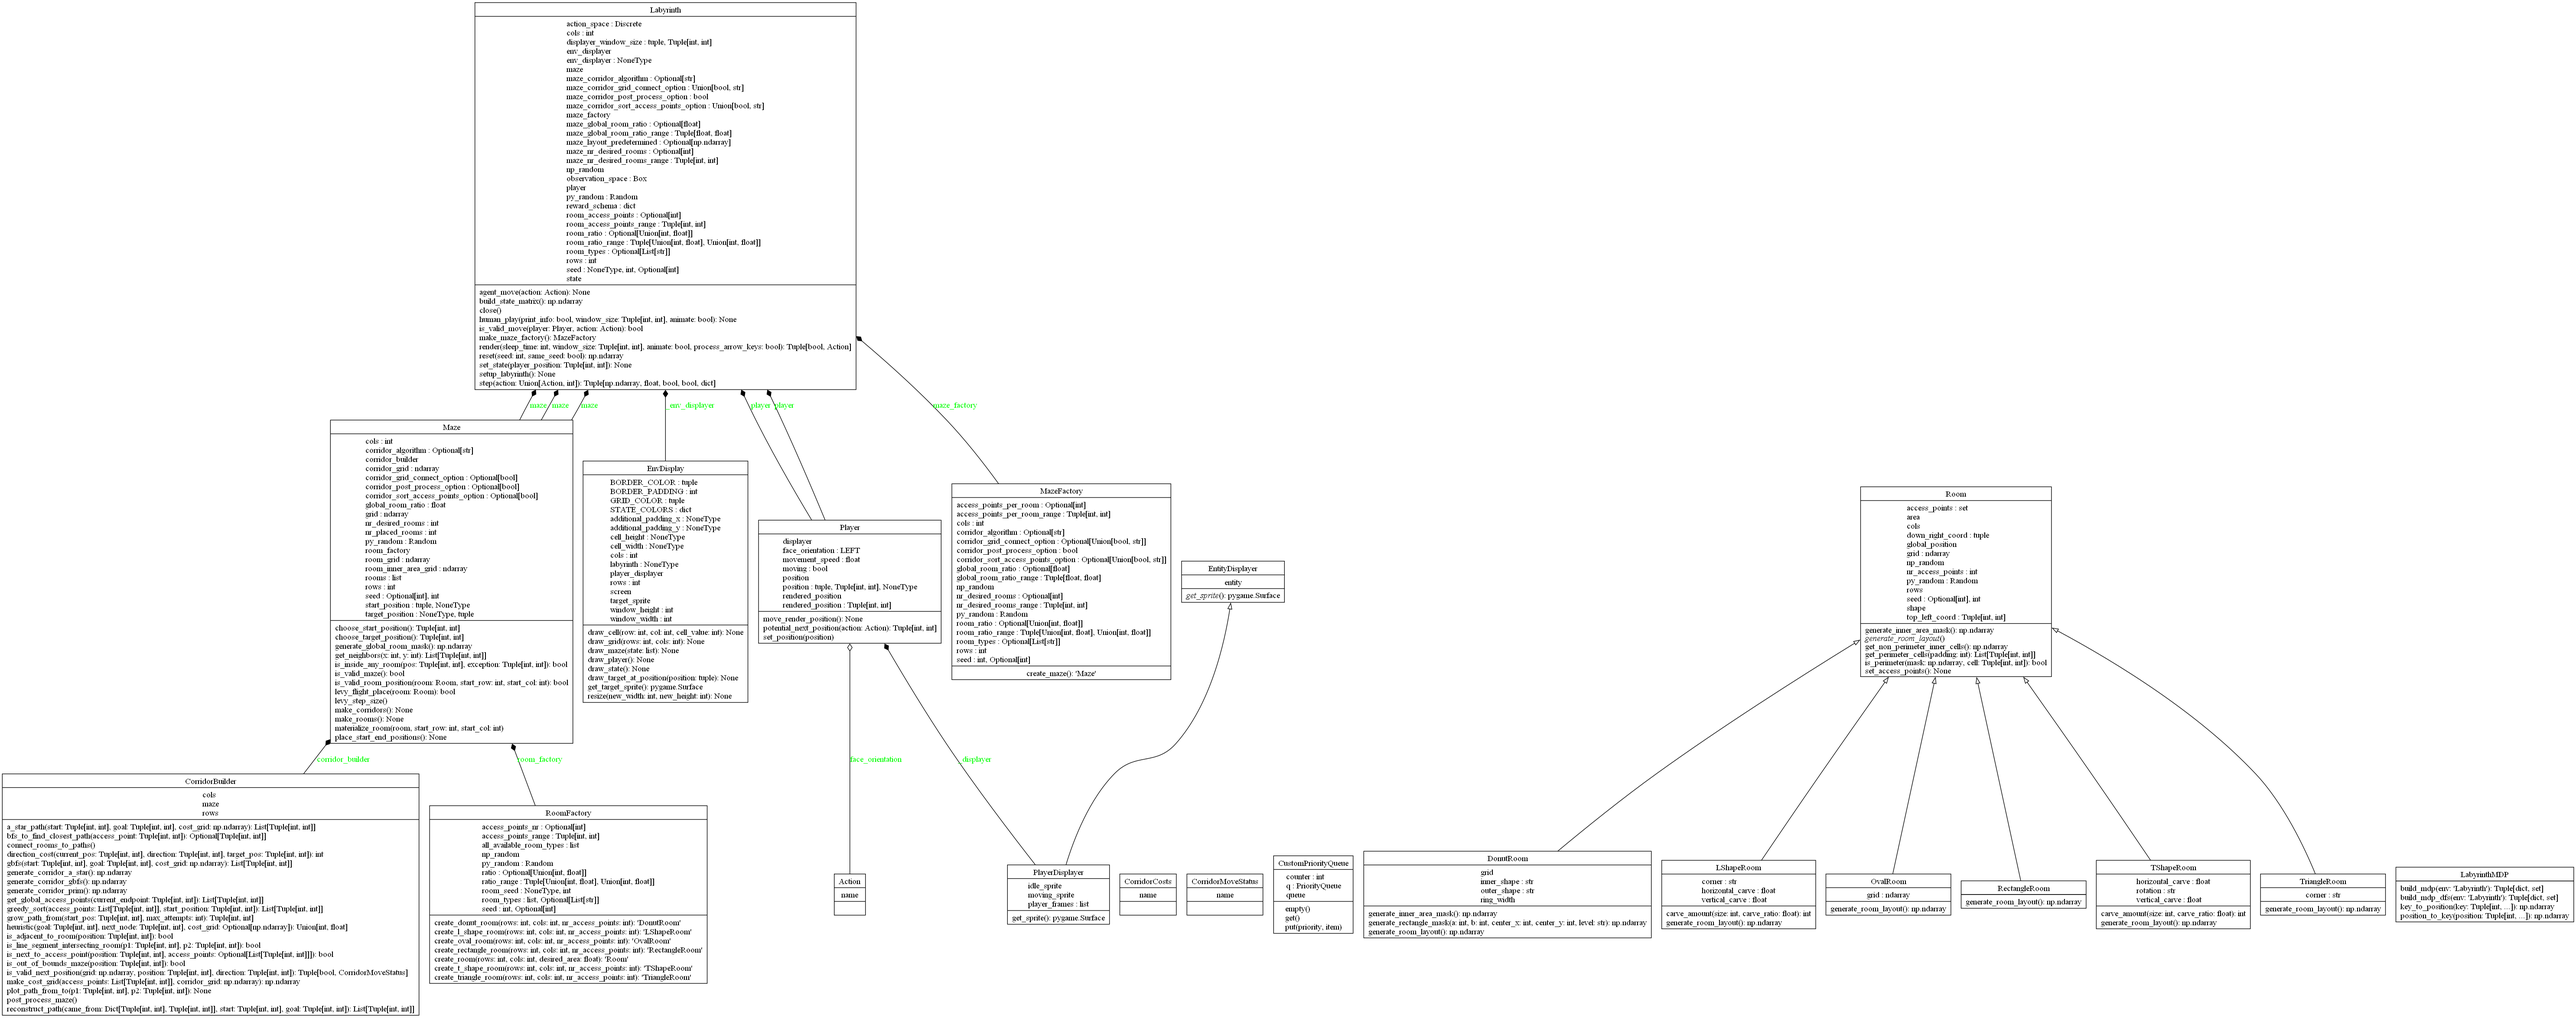
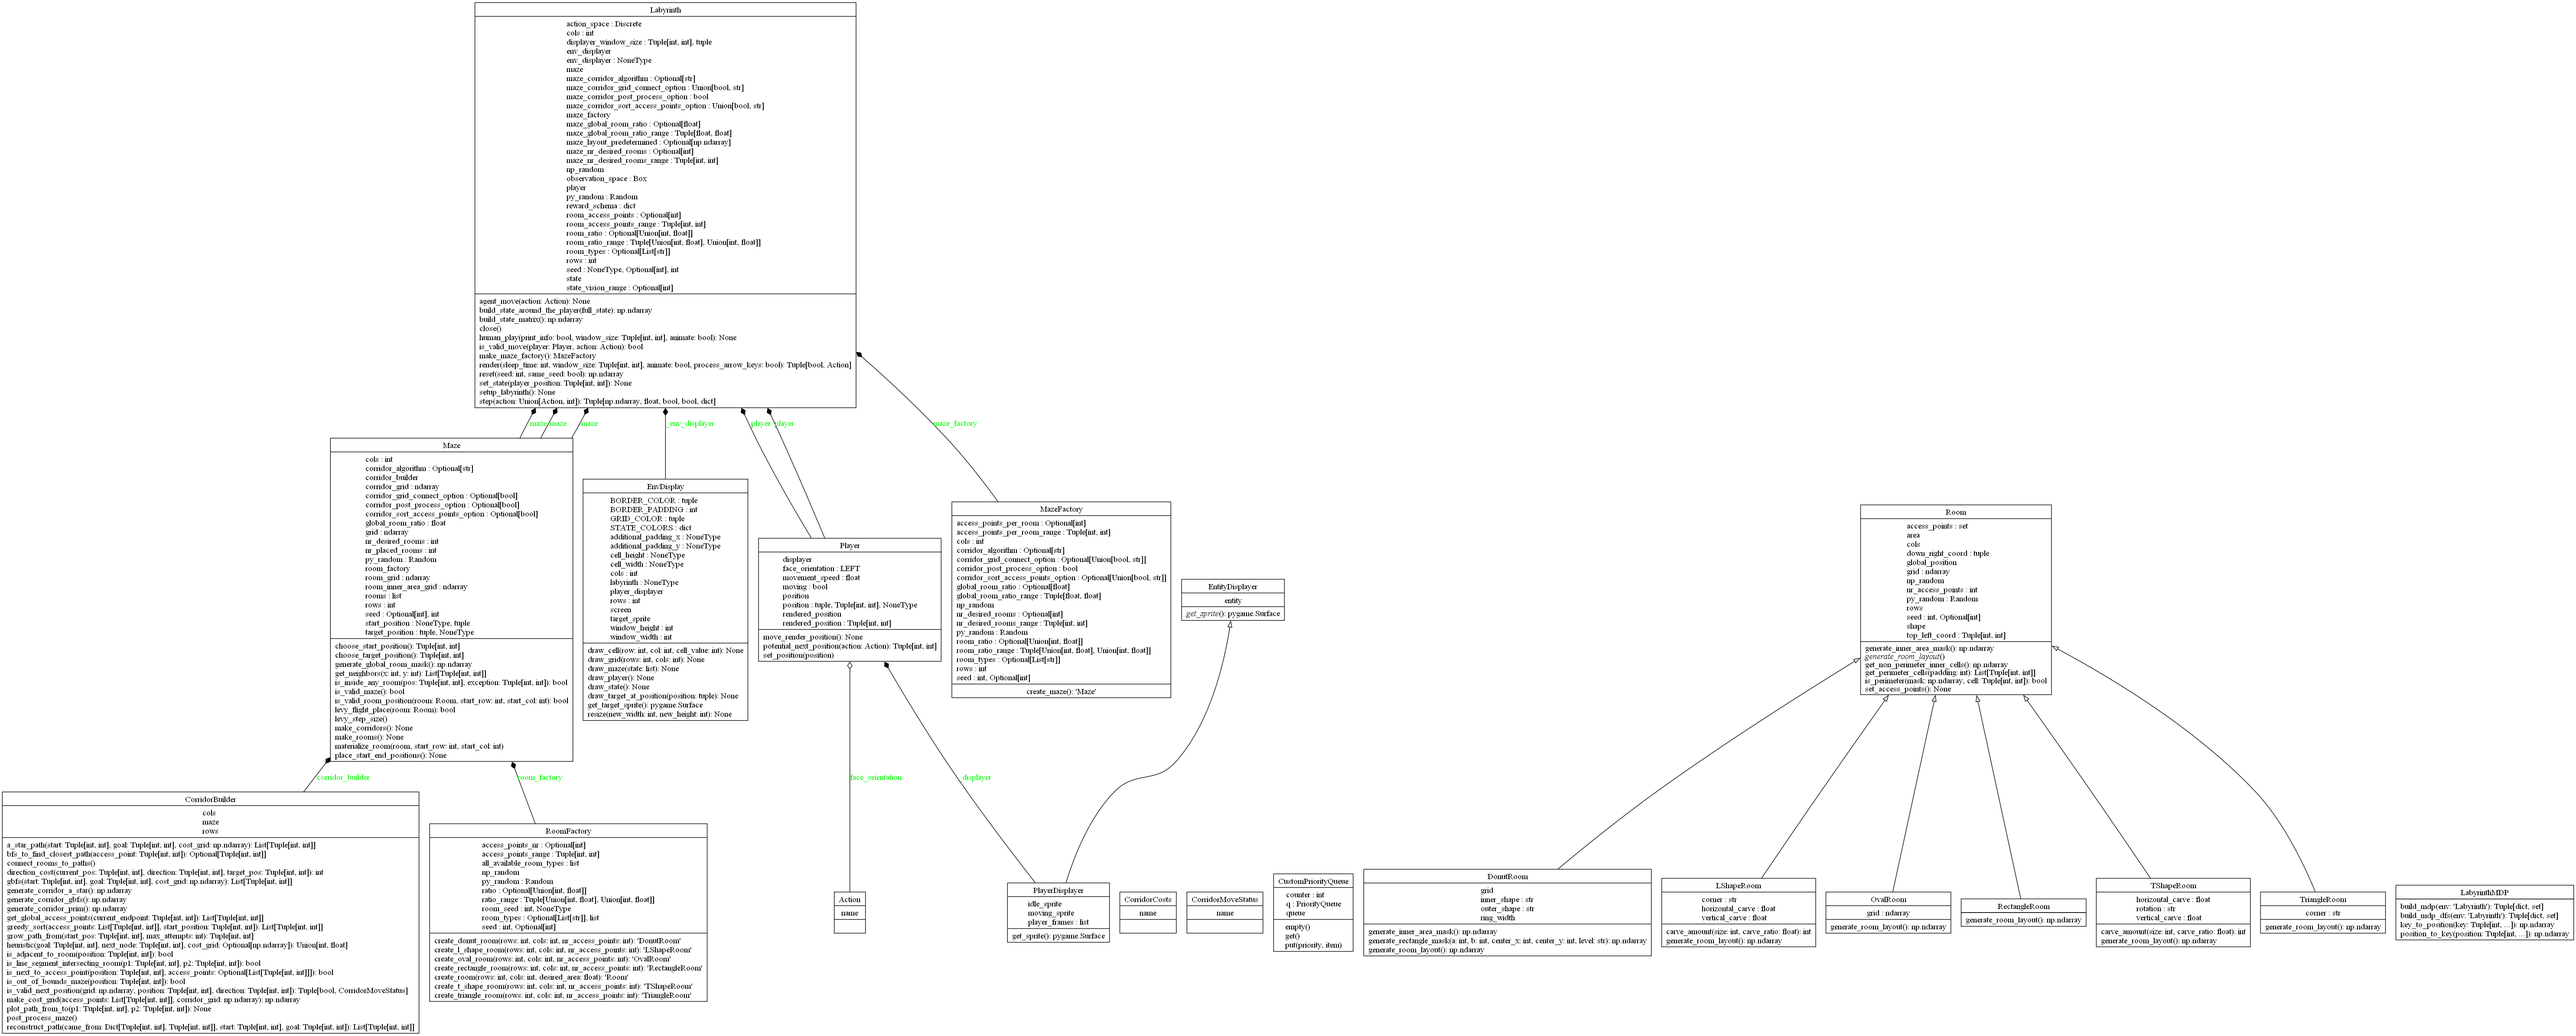
Labyrinth state representation (#16)
* added the vision range feature

diff --git a/tests/envs/labyrinth/test_labyrinth.py b/tests/envs/labyrinth/test_labyrinth.py
@@ -292,3 +292,124 @@ class TestLabyrinth:
 
             # If no exception, the test passes
             assert True
+
+    def test_maze_layout_predetermined(self):
+        # Define a predetermined maze layout
+        predesign = np.array(
+            [
+                [WALL, WALL, WALL, WALL, WALL],
+                [WALL, PATH, PATH, PATH, WALL],
+                [WALL, PATH, WALL, PATH, WALL],
+                [WALL, PATH, PATH, PATH, WALL],
+                [WALL, WALL, WALL, WALL, WALL],
+            ],
+            dtype=np.uint8,
+        )
+
+        # Create a Labyrinth instance using the predetermined layout
+        lab = Labyrinth(maze_layout_predetermined=predesign)
+        lab.set_state((1, 1))
+        lab.maze.target_position = (3, 3)
+
+        assert lab.player.position == (1, 1)
+
+    def test_invalid_state_vision_range(self):
+        with pytest.raises(
+            AssertionError,
+            match="state_vision_range must be a positive integer or None",
+        ):
+            Labyrinth(
+                rows=20, cols=20, state_vision_range=-1
+            )  # Using an invalid state_vision_range
+
+    def test_state_vision_range_3_middle(self):
+        # Create a simple predefined maze of size 10x10
+        vision_range = 3
+        player_pos = (5, 5)
+        target_pos = (6, 6)
+
+        rows, cols = 10, 10
+        predesign = np.ones((rows, cols), dtype=np.uint8) * WALL
+        predesign[
+            vision_range : rows - vision_range, vision_range : cols - vision_range
+        ] = PATH
+
+        lab = Labyrinth(maze_layout_predetermined=predesign, state_vision_range=3)
+        lab.set_state(player_pos)
+        lab.maze.target_position = target_pos
+
+        # Retrieve the state
+        state = lab.state
+
+        # Check the shape of the state
+        assert state.shape == (
+            2 * 3 + 1,
+            2 * 3 + 1,
+        )  # Given N=3, the shape should be 7x7
+
+        # Check that the player is in the middle of this grid
+        assert state[3, 3] == PLAYER
+
+        target_offset = (target_pos[0] - player_pos[0], target_pos[1] - player_pos[1])
+
+        # Extract a 7x7 grid around the player (with vision=3)
+        for i in range(-vision_range, vision_range + 1):  # 7x7 grid
+            for j in range(-vision_range, vision_range + 1):
+                # Exclude the center cell (which is the player) and the target cell
+                if (i, j) != (0, 0) and (
+                    i,
+                    j,
+                ) != target_offset:  # (0, 0) is the center, i.e., the player's position
+                    assert (
+                        state[vision_range + i, vision_range + j]
+                        == lab.maze.grid[player_pos[0] + i, player_pos[1] + j]
+                    ), f"Expected cell ({vision_range + i}, {vision_range + j}) to be {lab.maze.grid[player_pos[0] + i, player_pos[1] + j]} but got {state[vision_range + i, vision_range + j]}"
+
+    def test_state_vision_range_2_corner(self):
+        # Create a simple predefined maze of size 10x10
+        vision_range = 2
+        player_pos = (0, 0)  # Top-left corner
+        target_pos = (2, 2)  # Just to place it within the player's vision
+
+        rows, cols = 10, 10
+        predesign = np.ones((rows, cols), dtype=np.uint8) * WALL
+        predesign[0 : vision_range + 1, 0 : vision_range + 1] = PATH
+
+        lab = Labyrinth(
+            maze_layout_predetermined=predesign, state_vision_range=vision_range
+        )
+        lab.set_state(player_pos)
+        lab.maze.target_position = target_pos
+
+        # Retrieve the state
+        state = lab.state
+
+        # Check the shape of the state
+        expected_shape = (2 * vision_range + 1, 2 * vision_range + 1)
+        assert (
+            state.shape == expected_shape
+        ), f"Expected shape {expected_shape} but got {state.shape}"
+
+        target_offset = (target_pos[0] - player_pos[0], target_pos[1] - player_pos[1])
+
+        # Extract a 5x5 grid around the player (with vision=2)
+        for i in range(-vision_range, vision_range + 1):  # 5x5 grid
+            for j in range(-vision_range, vision_range + 1):
+                if (i, j) == target_offset:
+                    assert (
+                        state[vision_range + i, vision_range + j] == TARGET
+                    ), f"Expected cell ({vision_range + i}, {vision_range + j}) to be {TARGET} but got {state[vision_range + i, vision_range + j]}"
+                elif (i, j) == (0, 0):
+                    # Skip the player's position
+                    continue
+                else:
+                    # The cells that are outside the maze bounds should be WALL
+                    if player_pos[0] + i < 0 or player_pos[1] + j < 0:
+                        assert (
+                            state[vision_range + i, vision_range + j] == WALL
+                        ), f"Expected cell ({vision_range + i}, {vision_range + j}) to be {WALL} but got {state[vision_range + i, vision_range + j]}"
+                    else:
+                        assert (
+                            state[vision_range + i, vision_range + j]
+                            == lab.maze.grid[player_pos[0] + i, player_pos[1] + j]
+                        ), f"Expected cell ({vision_range + i}, {vision_range + j}) to be {lab.maze.grid[player_pos[0] + i, player_pos[1] + j]} but got {state[vision_range + i, vision_range + j]}"

diff --git a/rl_envs_forge/envs/labyrinth/labyrinth.py b/rl_envs_forge/envs/labyrinth/labyrinth.py
@@ -17,6 +17,7 @@ class Labyrinth(gym.Env):
         self,
         rows: int = 10,
         cols: int = 10,
+        state_vision_range: Optional[int] = None,  
         maze_layout_predetermined: Optional[np.ndarray] = None,
         maze_nr_desired_rooms: Optional[int] = None,
         maze_nr_desired_rooms_range: Tuple[int, int] = (1, 8),
@@ -46,6 +47,9 @@ class Labyrinth(gym.Env):
         Args:
             rows (int): The number of rows in the labyrinth. Defaults to 10.
             cols (int): The number of columns in the labyrinth. Defaults to 10.
+            state_vision_range (int, optional): The vision range of the player. Defaults to None.
+                                                If None, then the entire Labyrinth state is returned.
+                                                If a positive integer N, then the N closest cells around the player are returned.
             maze_layout_predetermined (np.ndarray, optional): The layout of the labyrinth.
             maze_nr_desired_rooms (int, optional): The desired number of rooms in the maze. Defaults to None.
             maze_nr_desired_rooms_range (tuple, optional): The range of desired number of rooms. Defaults to (1, 8).
@@ -77,6 +81,7 @@ class Labyrinth(gym.Env):
             self.rows, self.cols = self.maze_layout_predetermined.shape
 
         self._state = np.ones((rows, cols), dtype=np.uint8) * WALL
+        self.state_vision_range = state_vision_range
 
         self.seed = seed
         if self.seed is None:
@@ -87,9 +92,19 @@ class Labyrinth(gym.Env):
 
         # Define action and observation spaces
         self.action_space = gym.spaces.Discrete(4)  # Up, Right, Down, Left
-        self.observation_space = gym.spaces.Box(
-            low=0, high=4, shape=(rows, cols), dtype=np.uint8
-        )
+
+        if state_vision_range is None:
+            self.observation_space = gym.spaces.Box(
+                low=0, high=4, shape=(rows, cols), dtype=np.uint8
+            )
+        else:
+            assert (
+                isinstance(state_vision_range, int) and state_vision_range > 0
+            ), "state_vision_range must be a positive integer or None"
+            vision_diameter = 2 * state_vision_range + 1
+            self.observation_space = gym.spaces.Box(
+                low=0, high=4, shape=(vision_diameter, vision_diameter), dtype=np.uint8
+            )
 
         if not reward_schema:
             self.reward_schema = {
@@ -183,15 +198,48 @@ class Labyrinth(gym.Env):
         Returns:
             np.ndarray: The current state matrix.
         """
-        return self.build_state_matrix()
+        full_state = self.build_state_matrix()
+
+        if self.state_vision_range is None:
+            return full_state
+        else:
+            return self.build_state_around_the_player(full_state)
 
     def build_state_matrix(self) -> np.ndarray:
         """Sequentially build the state matrix."""
         self._state = self.maze.grid.copy()
-        self._state[self.maze.start_position] = START
         self._state[self.maze.target_position] = TARGET
         self._state[self.player.position] = PLAYER
         return self._state
+
+    def build_state_around_the_player(self, full_state) -> np.ndarray:
+        # Get the local state around the player position
+        start_row = max(0, self.player.position[0] - self.state_vision_range)
+        end_row = min(self.rows, self.player.position[0] + self.state_vision_range + 1)
+        start_col = max(0, self.player.position[1] - self.state_vision_range)
+        end_col = min(self.cols, self.player.position[1] + self.state_vision_range + 1)
+
+        local_state = full_state[start_row:end_row, start_col:end_col]
+
+        # Create a blank state filled with WALL values
+        full_local_state = (
+            np.ones(
+                (2 * self.state_vision_range + 1, 2 * self.state_vision_range + 1),
+                dtype=np.uint8,
+            )
+            * WALL
+        )
+
+        # Calculate where to place the local_state in the full_local_state
+        row_offset = self.state_vision_range - (self.player.position[0] - start_row)
+        col_offset = self.state_vision_range - (self.player.position[1] - start_col)
+
+        full_local_state[
+            row_offset : row_offset + local_state.shape[0],
+            col_offset : col_offset + local_state.shape[1],
+        ] = local_state
+
+        return full_local_state
 
     def step(
         self, action: Union[Action, int]

diff --git a/tests/envs/k_armed_bandit/test_k_armed_bandit.py b/tests/envs/k_armed_bandit/test_k_armed_bandit.py
@@ -1,5 +1,6 @@
 import pytest
 import matplotlib.pyplot as plt
+import numpy as np
 
 from rl_envs_forge.envs.k_armed_bandit.k_armed_bandit import KArmedBandit
 
@@ -92,3 +93,37 @@ class TestKArmedBandit:
             KArmedBandit(
                 seed=0, k=1, arm_params={0: {"distribution": "not_implemented"}}
             )
+
+    def test_linear_param_shift(self):
+        """
+        Test if the linear parameter shift works correctly.
+        """
+
+        def linear_function(timestep):
+            return timestep
+
+        initial_mean = 0
+
+        bandit = KArmedBandit(
+            k=1,
+            arm_params={
+                0: {
+                    "distribution": "normal",
+                    "mean": initial_mean,
+                    "std": 1,
+                    "param_functions": [
+                        {"function": linear_function, "target_param": "mean"}
+                    ],
+                }
+            },
+        )
+
+        # Perform 10 steps
+        for _ in range(10):
+            bandit.step(0)
+
+        # Check if the current mean of the arm is equal to 10 + initial mean
+        current_mean = bandit.arms[0].current_params["mean"]
+        assert (
+            current_mean == 10 + initial_mean
+        ), f"Expected mean {10 + initial_mean}, but got {current_mean}"

diff --git a/rl_envs_forge/envs/labyrinth/maze/maze.py b/rl_envs_forge/envs/labyrinth/maze/maze.py
@@ -6,7 +6,7 @@ from enum import Enum
 
 from .room import RoomFactory, Room
 from .corridor import CorridorBuilder
-from ..constants import WALL, PATH, START, TARGET, CorridorMoveStatus
+from ..constants import WALL, PATH, TARGET, CorridorMoveStatus
 
 from ...common.grid_functions import on_line
 

diff --git a/CHANGELOG.md b/CHANGELOG.md
@@ -7,6 +7,12 @@ and this project adheres to [Semantic Versioning](https://semver.org/spec/v2.0.0
 
 ## [Unreleased]
 
+## [2.1.0] - 2023.10.24
+
+### Added
+
+- Labyrinth: Vision range feature 
+
 ## [2.0.0] - 2023.10.22
 
 ### Fixed
